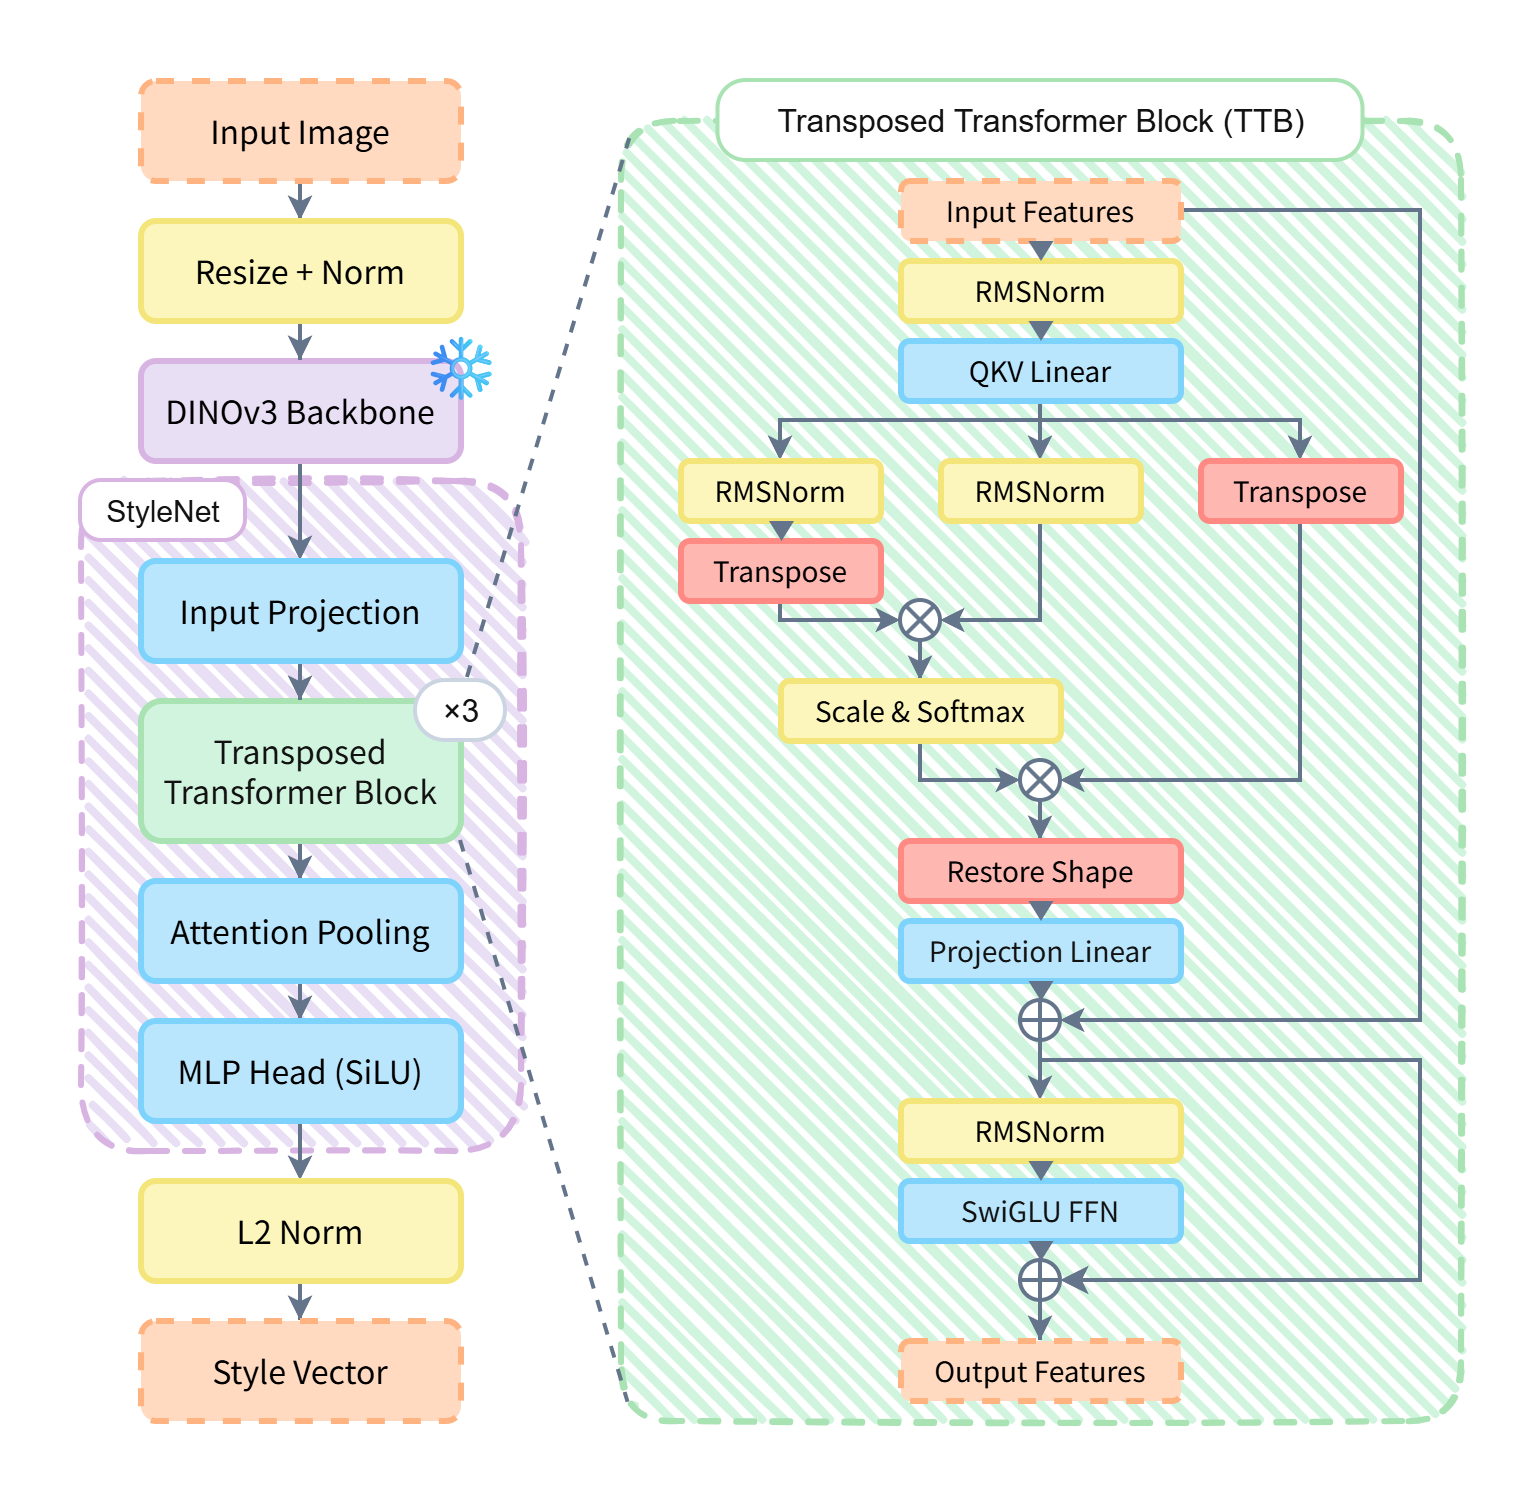
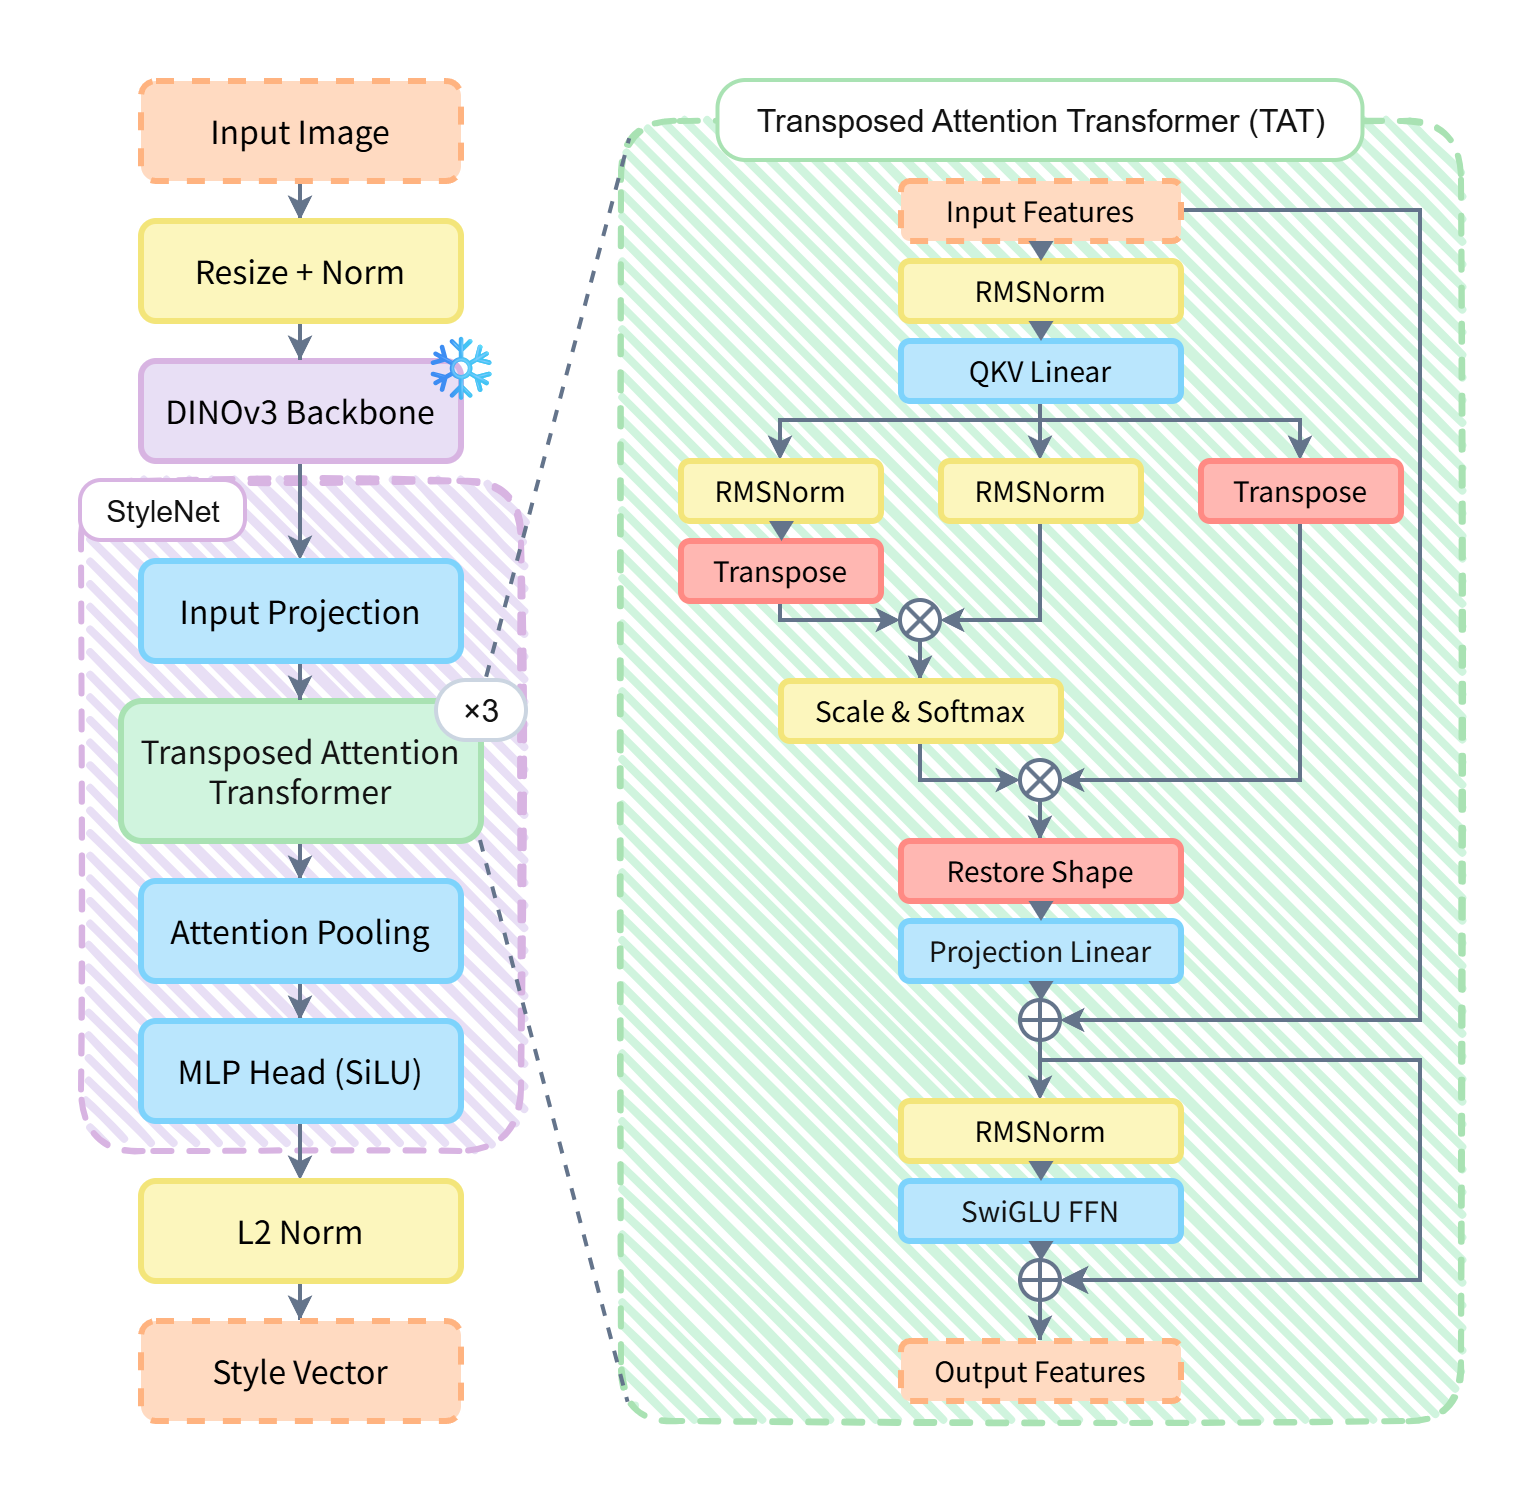
Change the naming convention

diff --git a/egaranet/model.py b/egaranet/model.py
@@ -20,19 +20,19 @@ from transformers import AutoImageProcessor, AutoModel
 
 from .layers import (
     AttentionPooling,
-    TransposedTransformerBlock,
+    TransposedAttentionTransformer,
 )
 from .preprocessing import MaxResizeMod16, build_transform
 
 
 class StyleNet(nn.Module):
-    """StyleNet head: TTB layers → AttentionPooling → Projection → L2 norm.
+    """StyleNet head: TAT layers → AttentionPooling → Projection → L2 norm.
 
     Args:
         input_dim: Input channel dimension from the backbone.
-        hidden_dim: Internal channel width of TTB layers.
-        num_ttb_layers: Number of stacked TransposedTransformerBlock layers.
-        num_heads: Number of attention heads in each TTB.
+        hidden_dim: Internal channel width of TAT layers.
+        num_tat_layers: Number of stacked TransposedAttentionTransformer layers.
+        num_heads: Number of attention heads in each TAT.
         output_dim: Dimension of the final L2-normalized style vector.
         attn_pool_heads: Number of heads in AttentionPooling.
         rms_norm_eps: Epsilon for RMSNorm.
@@ -43,7 +43,7 @@ class StyleNet(nn.Module):
         self,
         input_dim: int = 1024,
         hidden_dim: int = 1024,
-        num_ttb_layers: int = 3,
+        num_tat_layers: int = 3,
         num_heads: int = 16,
         output_dim: int = 1024,
         attn_pool_heads: int = 8,
@@ -56,14 +56,14 @@ class StyleNet(nn.Module):
             else nn.Linear(input_dim, hidden_dim)
         )
 
-        self.ttb_layers = nn.ModuleList([
-            TransposedTransformerBlock(
+        self.tat_layers = nn.ModuleList([
+            TransposedAttentionTransformer(
                 dim=hidden_dim,
                 num_heads=num_heads,
                 eps=rms_norm_eps,
                 swiglu_multiple=swiglu_multiple,
             )
-            for _ in range(num_ttb_layers)
+            for _ in range(num_tat_layers)
         ])
 
         self.attn_pool = AttentionPooling(dim=hidden_dim, num_heads=attn_pool_heads)
@@ -83,7 +83,7 @@ class StyleNet(nn.Module):
             L2-normalized style embeddings [B, output_dim].
         """
         x = self.input_proj(x)
-        for layer in self.ttb_layers:
+        for layer in self.tat_layers:
             x = layer(x)
         x = self.attn_pool(x)
         x = self.head(x)
@@ -96,7 +96,7 @@ class EgaraNet(nn.Module):
     A composite model that extracts illustration style embeddings.
     The backbone (DINOv3 ViT) extracts visual features, and StyleNet
     transforms them into L2-normalized style vectors using Transposed
-    Transformer Blocks (TTB).
+    Attention Transformer (TAT).
 
     Example:
         >>> model = EgaraNet.from_checkpoint("checkpoints/epoch_10.pth")
@@ -150,7 +150,7 @@ class EgaraNet(nn.Module):
         backbone_id = cls.DEFAULT_BACKBONE_ID
         hidden_dim = 1024
         output_dim = 1024
-        num_ttb_layers = 3
+        num_tat_layers = 3
         num_heads = 16
 
         # Load checkpoint and override defaults from config
@@ -160,7 +160,7 @@ class EgaraNet(nn.Module):
             backbone_id = cfg.get("dino_model_id", backbone_id)
             hidden_dim = int(cfg.get("hidden_dim", hidden_dim))
             output_dim = int(cfg.get("output_dim", output_dim))
-            num_ttb_layers = int(cfg.get("num_ttb_layers", num_ttb_layers))
+            num_tat_layers = int(cfg.get("num_tat_layers", num_tat_layers))
             num_heads = int(cfg.get("num_heads", num_heads))
 
         # Load backbone
@@ -173,7 +173,7 @@ class EgaraNet(nn.Module):
         style_net = StyleNet(
             input_dim=backbone_hidden_size,
             hidden_dim=hidden_dim,
-            num_ttb_layers=num_ttb_layers,
+            num_tat_layers=num_tat_layers,
             num_heads=num_heads,
             output_dim=output_dim,
         ).to(device)

diff --git a/train.py b/train.py
@@ -94,8 +94,8 @@ def get_config(args: argparse.Namespace) -> dict:
     return {
         # Model
         "backbone": args.backbone or model_cfg.get("backbone", "facebook/dinov3-vitl16-pretrain-lvd1689m"),
-        "ttb_layers": args.ttb_layers or model_cfg.get("ttb_layers", 3),
-        "ttb_heads": args.ttb_heads or model_cfg.get("ttb_heads", 16),
+        "tat_layers": args.tat_layers or model_cfg.get("tat_layers", 3),
+        "tat_heads": args.tat_heads or model_cfg.get("tat_heads", 16),
         "hidden_dim": args.hidden_dim or model_cfg.get("hidden_dim", 1024),
         "output_dim": args.output_dim or model_cfg.get("output_dim", 1024),
         # Preprocessing
@@ -243,8 +243,8 @@ def train(config: dict):
     model = StyleNet(
         input_dim=1024,
         hidden_dim=config["hidden_dim"],
-        num_ttb_layers=config["ttb_layers"],
-        num_heads=config["ttb_heads"],
+        num_tat_layers=config["tat_layers"],
+        num_heads=config["tat_heads"],
         output_dim=config["output_dim"],
     ).to(device)
 
@@ -332,8 +332,8 @@ def train(config: dict):
                 "dino_model_id": config["backbone"],
                 "hidden_dim": config["hidden_dim"],
                 "output_dim": config["output_dim"],
-                "num_ttb_layers": config["ttb_layers"],
-                "num_heads": config["ttb_heads"],
+                "num_tat_layers": config["tat_layers"],
+                "num_heads": config["tat_heads"],
             },
         }, save_path)
         print(f"Checkpoint saved: {save_path}")
@@ -374,10 +374,10 @@ def main():
     # Model overrides
     parser.add_argument("--backbone", default=None,
                         help="Backbone model HuggingFace ID")
-    parser.add_argument("--ttb_layers", type=int, default=None,
-                        help="Number of TTB layers")
-    parser.add_argument("--ttb_heads", type=int, default=None,
-                        help="Number of attention heads in TTB")
+    parser.add_argument("--tat_layers", type=int, default=None,
+                        help="Number of TAT layers")
+    parser.add_argument("--tat_heads", type=int, default=None,
+                        help="Number of attention heads in TAT")
     parser.add_argument("--hidden_dim", type=int, default=None)
     parser.add_argument("--output_dim", type=int, default=None)
 

diff --git a/egaranet/layers.py b/egaranet/layers.py
@@ -4,7 +4,7 @@ EgaraNet — Core layer definitions.
 Modules:
     RMSNorm                   : Root Mean Square Layer Normalization
     SwiGLU                    : SwiGLU Feed-Forward Network
-    TransposedTransformerBlock: Cross-covariance (channel-wise) Transformer block
+    TransposedAttentionTransformer: Cross-covariance (channel-wise) Transformer block
     AttentionPooling          : Learned-query attention pooling
 """
 
@@ -57,8 +57,8 @@ class SwiGLU(nn.Module):
         return self.w_down(F.silu(self.w_gate(x)) * self.w_up(x))
 
 
-class TransposedTransformerBlock(nn.Module):
-    """Transposed Transformer Block (TTB).
+class TransposedAttentionTransformer(nn.Module):
+    """Transposed Attention Transformer (TAT).
 
     A Transformer layer that computes attention in channel space rather than
     spatial space. Inspired by the observation that Gram matrices of feature

diff --git a/egaranet/__init__.py b/egaranet/__init__.py
@@ -19,7 +19,7 @@ from .layers import (
     AttentionPooling,
     RMSNorm,
     SwiGLU,
-    TransposedTransformerBlock,
+    TransposedAttentionTransformer,
 )
 from .preprocessing import MaxResizeMod16, preprocess_image, build_transform
 from .losses import TripletLoss
@@ -32,7 +32,7 @@ __all__ = [
     "StyleNet",
     "cosine_similarity",
     # Layers
-    "TransposedTransformerBlock",
+    "TransposedAttentionTransformer",
     "AttentionPooling",
     "RMSNorm",
     "SwiGLU",

diff --git a/README.md b/README.md
@@ -40,11 +40,11 @@ EgaraNet is a composite model with two main components:
 | Component | Description |
 |-----------|-------------|
 | **Backbone** | DINOv3 ViT-L/16 — A Vision Transformer pretrained with DINOv3 self-supervised learning |
-| **Head** | StyleNet — Custom decoder with Transposed Transformer Blocks (TTB) |
+| **Head** | StyleNet — Custom decoder with Transposed Attention Transformer (TAT) |
 
-### Transposed Transformer Block (TTB)
+### Transposed Attention Transformer (TAT)
 
-The **Transposed Transformer Block** is a Transformer layer designed to extract style information by operating in channel space rather than spatial space. Inspired by the observation from Gatys et al. ([CVPR 2016](https://openaccess.thecvf.com/content_cvpr_2016/html/Gatys_Image_Style_Transfer_CVPR_2016_paper.html)) that Gram matrices of feature maps encode style independent of content, the TTB computes cross-covariance attention where:
+The **Transposed Attention Transformer** is a Transformer designed to extract style information by operating in channel space rather than spatial space. Inspired by the observation from Gatys et al. ([CVPR 2016](https://openaccess.thecvf.com/content_cvpr_2016/html/Gatys_Image_Style_Transfer_CVPR_2016_paper.html)) that Gram matrices of feature maps encode style independent of content, the TAT computes cross-covariance attention where:
 
 1. Query is transposed: `Q.T` → shape `(HeadDim, N)` instead of `(N, HeadDim)`
 2. Attention is computed as `(Q.T @ K)` → shape `(HeadDim, HeadDim)` — a C×C channel correlation matrix
@@ -52,7 +52,10 @@ The **Transposed Transformer Block** is a Transformer layer designed to extract 
 
 This discards positional/spatial information, preserving only how channels (features) correlate with each other — exactly the style signature.
 
-TTB extends the concept of the Transposed Attention proposed in [MANIQA](https://arxiv.org/abs/2204.08958) into a complete Transformer block featuring RMSNorm and a SwiGLU feed-forward network.
+Channel attention mechanisms are not new, with several prior studies having explored similar approaches:
+- [Restormer: Efficient Transformer for High-Resolution Image Restoration](https://arxiv.org/abs/2111.09881)
+- [Multi-Head Transposed Attention Transformer for Sea Ice Segmentation in Sar Imagery](https://ieeexplore.ieee.org/document/10640437)
+- [MANIQA: Multi-dimension Attention Network for No-Reference Image Quality Assessment](https://arxiv.org/abs/2204.08958)
 
 ### Technical Specifications
 
@@ -60,7 +63,7 @@ TTB extends the concept of the Transposed Attention proposed in [MANIQA](https:/
 |-----------|-------|
 | Embedding dimension | 1024 |
 | Backbone | DINOv3 ViT-L/16 (hidden_size=1024) |
-| TTB layers | 3 |
+| TAT layers | 3 |
 | Attention heads | 16 (head_dim=64) |
 | Input resolution | Dynamic (any multiple of 16) |
 | Training images | ~1.2M from ~12K artists |
@@ -198,9 +201,9 @@ The default configuration is in `configs/default.yaml`. All settings can be over
 | Section | Key | Default | Description |
 |---------|-----|---------|-------------|
 | model | backbone | `facebook/dinov3-vitl16-pretrain-lvd1689m` | DINOv3 backbone model ID |
-| model | ttb_layers | 3 | Number of TTB layers |
-| model | ttb_heads | 16 | Attention heads per TTB |
-| model | hidden_dim | 1024 | Internal TTB dimension |
+| model | tat_layers | 3 | Number of TAT layers |
+| model | tat_heads | 16 | Attention heads per TAT |
+| model | hidden_dim | 1024 | Internal TAT dimension |
 | model | output_dim | 1024 | Style vector dimension |
 | preprocessing | max_size | 512 | Max image size (long edge) |
 | preprocessing | keep_aspect_ratio | true | Preserve aspect ratio |
@@ -217,7 +220,7 @@ The default configuration is in `configs/default.yaml`. All settings can be over
 ├── egaranet/                  # Python package
 │   ├── __init__.py            # Package exports
 │   ├── model.py               # EgaraNet model (backbone + StyleNet)
-│   ├── layers.py              # RMSNorm, SwiGLU, TTB, AttentionPooling
+│   ├── layers.py              # RMSNorm, SwiGLU, TAT, AttentionPooling
 │   ├── losses.py              # Loss functions (TripletLoss)
 │   ├── preprocessing.py       # Image preprocessing (MaxResizeMod16)
 │   └── dataset.py             # StyleTripletDataset
@@ -240,8 +243,10 @@ The default configuration is in `configs/default.yaml`. All settings can be over
 ## References
 
 - **DINOv3**: [arXiv:2508.10104](https://arxiv.org/abs/2508.10104)
-- **MANIQA**: Yang et al., "Multi-dimension Attention Network for No-Reference Image Quality Assessment" [arXiv:2204.08958](https://arxiv.org/abs/2204.08958)
-- **Style Transfer**: Gatys et al., "Image Style Transfer Using Convolutional Neural Networks" [CVPR 2016](https://openaccess.thecvf.com/content_cvpr_2016/html/Gatys_Image_Style_Transfer_CVPR_2016_paper.html)
+- **Style Transfer**: "Image Style Transfer Using Convolutional Neural Networks" [CVPR 2016](https://openaccess.thecvf.com/content_cvpr_2016/html/Gatys_Image_Style_Transfer_CVPR_2016_paper.html)
+- **Restormer**: "Restormer: Efficient Transformer for High-Resolution Image Restoration" [arXiv:2111.09881](https://arxiv.org/abs/2111.09881)
+- **MHTA**: "Multi-Head Transposed Attention Transformer for Sea Ice Segmentation in Sar Imagery" [IGARSS 2024](https://ieeexplore.ieee.org/document/10640437)
+- **MANIQA**: "MANIQA: Multi-dimension Attention Network for No-Reference Image Quality Assessment" [arXiv:2204.08958](https://arxiv.org/abs/2204.08958)
 
 ## Links
 
